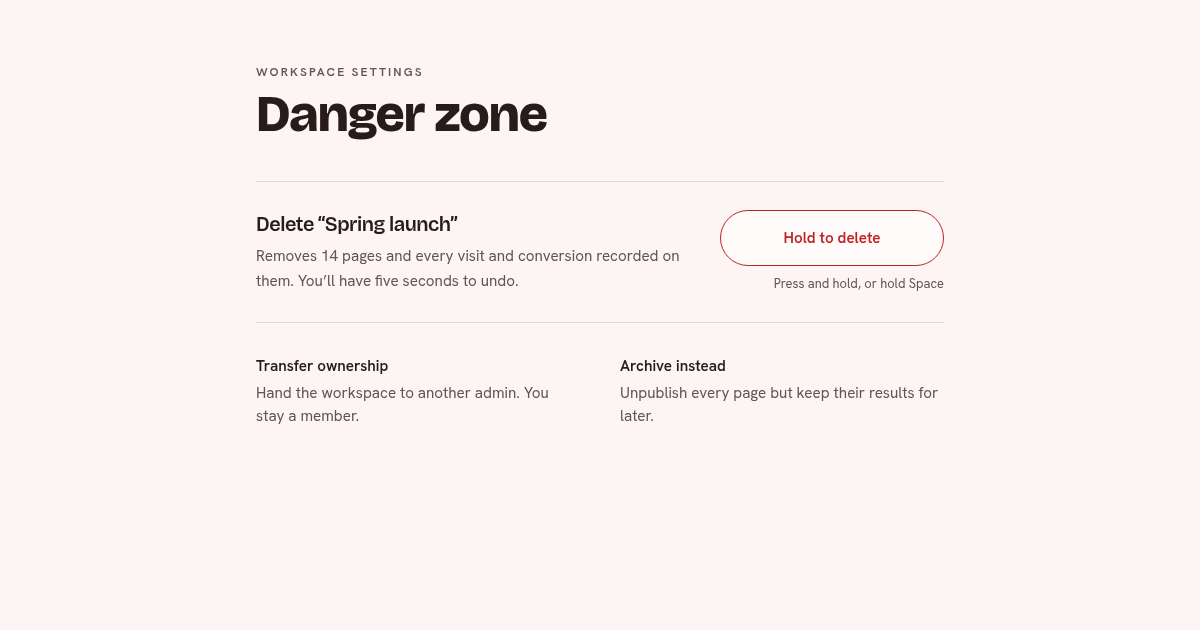
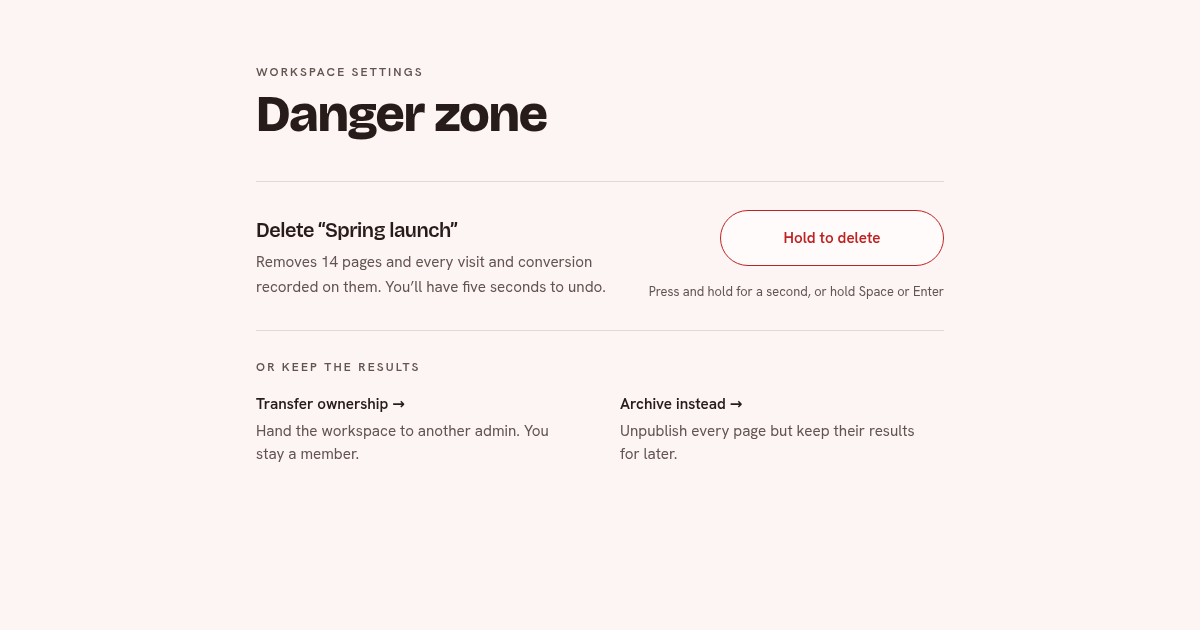
fix(ui): hold-to-confirm click fallback, in-button undo, real alternatives

diff --git a/ui/hold-to-confirm/devin.html b/ui/hold-to-confirm/devin.html
@@ -31,7 +31,12 @@
     }
     .hold:focus-visible { box-shadow: 0 0 0 3px var(--color-paper), 0 0 0 5px var(--color-accent); }
     .hold[data-state="holding"] { transform: scale(0.97); }
-    .hold[data-state="done"], .hold[data-state="gone"] { @apply cursor-default; }
+    .hold[data-state="confirm"] { @apply bg-accent-soft text-accent-deep; box-shadow: inset 0 0 0 1px var(--color-accent); }
+    .hold[data-state="confirm"]:focus-visible { box-shadow: inset 0 0 0 1px var(--color-accent), 0 0 0 3px var(--color-paper), 0 0 0 5px var(--color-accent); }
+    .hold[data-state="undo"] { @apply bg-accent-soft text-accent-deep; }
+    .hold[data-state="gone"] { @apply cursor-default border-rule bg-paper text-dim; }
+    .alt { @apply -mx-3 block min-h-11 w-full rounded-xl px-3 py-2.5 text-left outline-none transition-colors hover:bg-sheet focus-visible:bg-sheet; }
+    .alt:focus-visible { box-shadow: 0 0 0 2px var(--color-accent); }
   }
 </style>
 <style>
@@ -39,15 +44,16 @@
   .hold__fill { transform: scaleX(var(--p)); transform-origin: left; }
   .hold__label--over { clip-path: inset(0 calc(100% - var(--p) * 100%) 0 0); }
   .hold__label { grid-area: 1 / 1; }
+  .hold__ring { display: none; transform: rotate(-90deg); }
+  .hold__ring circle:last-child { transition: stroke-dashoffset 1s linear; }
+  .hold[data-state="undo"] .hold__ring { display: block; }
   @keyframes nudge { 0%,100% { translate: 0 } 25% { translate: -3px } 75% { translate: 3px } }
   .hint[data-nudge] { animation: nudge 260ms ease; }
-  .undo-ring { transform: rotate(-90deg); }
-  .undo-ring circle:last-child { transition: stroke-dashoffset 1s linear; }
   @media (prefers-reduced-motion: reduce) {
     .hold { transition: none; }
     .hold[data-state="holding"] { transform: none; }
     .hint[data-nudge] { animation: none; }
-    .undo-ring circle:last-child { transition: none; }
+    .hold__ring circle:last-child { transition: none; }
   }
 </style>
 </head>
@@ -56,78 +62,87 @@
     <p class="font-body text-xs font-semibold uppercase tracking-[0.18em] text-dim">Workspace settings</p>
     <h1 class="mt-2 font-display text-[clamp(2rem,5vw,3.25rem)] font-extrabold leading-[1.02] tracking-tight">Danger zone</h1>
 
-    <section aria-labelledby="delete-title" class="mt-8 border-y border-rule py-7 sm:mt-10">
-      <div class="flex flex-col gap-6 sm:flex-row sm:items-center sm:justify-between">
-        <div class="max-w-md">
+    <section aria-labelledby="delete-title" class="mt-8 border-y border-rule pt-7 pb-4 sm:mt-10">
+      <div class="flex flex-col gap-6 sm:flex-row sm:items-start sm:justify-between">
+        <div class="max-w-md sm:pt-1.5">
           <h2 id="delete-title" class="font-display text-xl font-semibold tracking-tight">Delete “Spring launch”</h2>
           <p id="delete-desc" class="mt-1.5 text-[0.95rem] leading-relaxed text-dim">
             Removes 14 pages and every visit and conversion recorded on them. You’ll have five seconds to undo.
           </p>
         </div>
 
-        <div class="flex flex-col items-start gap-2 sm:items-end">
+        <div class="flex flex-col items-start gap-1 sm:shrink-0 sm:items-end">
           <button type="button" class="hold" data-state="idle" aria-describedby="delete-desc hold-hint" data-hold>
             <span class="hold__fill absolute inset-0 -z-10 bg-accent" aria-hidden="true"></span>
+            <svg class="hold__ring absolute left-4 top-1/2 -mt-3 size-6" viewBox="0 0 36 36" aria-hidden="true">
+              <circle cx="18" cy="18" r="14" fill="none" stroke="var(--color-rule)" stroke-width="4"></circle>
+              <circle cx="18" cy="18" r="14" fill="none" stroke="var(--color-accent)" stroke-width="4" stroke-linecap="round" stroke-dasharray="87.96" stroke-dashoffset="0" data-ring></circle>
+            </svg>
             <span class="hold__label" data-label>Hold to delete</span>
             <span class="hold__label hold__label--over text-on-accent" aria-hidden="true" data-label-over>Hold to delete</span>
           </button>
-          <p id="hold-hint" class="hint min-h-5 text-[0.8rem] text-dim" data-hint>Press and hold, or hold Space</p>
+          <div class="flex min-h-11 flex-wrap items-center gap-x-3 sm:flex-nowrap sm:justify-end">
+            <p id="hold-hint" class="hint text-[0.8rem] text-dim sm:whitespace-nowrap sm:text-right" data-hint>Press and hold for a second, or hold Space or Enter</p>
+            <button type="button" class="hidden h-11 rounded-full px-1 text-[0.8rem] font-semibold text-accent-deep underline decoration-1 underline-offset-4 hover:decoration-2 focus-visible:outline-2 focus-visible:outline-offset-2 focus-visible:outline-accent" data-reset>Reset the demo</button>
+          </div>
         </div>
-      </div>
-
-      <div class="mt-6 hidden items-center gap-4 rounded-2xl bg-accent-soft px-5 py-4" data-undo-bar>
-        <svg class="undo-ring size-9 shrink-0" viewBox="0 0 36 36" aria-hidden="true">
-          <circle cx="18" cy="18" r="15" fill="none" stroke="var(--color-rule)" stroke-width="3"></circle>
-          <circle cx="18" cy="18" r="15" fill="none" stroke="var(--color-accent)" stroke-width="3" stroke-linecap="round" stroke-dasharray="94.25" stroke-dashoffset="0" data-ring></circle>
-        </svg>
-        <p class="flex-1 text-[0.95rem]"><span class="font-semibold">Spring launch is being deleted.</span> <span class="text-dim" data-count>5 seconds to undo.</span></p>
-        <button type="button" class="h-11 rounded-full px-5 font-semibold text-accent-deep underline decoration-1 underline-offset-4 hover:decoration-2 focus-visible:outline-2 focus-visible:outline-offset-2 focus-visible:outline-accent" data-undo>Undo</button>
-      </div>
-
-      <div class="mt-6 hidden items-center justify-between gap-4" data-gone>
-        <p class="text-[0.95rem] text-dim">Spring launch and its 14 pages are gone.</p>
-        <button type="button" class="h-11 rounded-full border border-rule px-5 text-sm font-semibold hover:border-ink focus-visible:outline-2 focus-visible:outline-offset-2 focus-visible:outline-accent" data-reset>Reset the demo</button>
       </div>
     </section>
 
-    <dl class="mt-8 grid gap-x-10 gap-y-5 text-[0.95rem] sm:grid-cols-2">
-      <div><dt class="font-semibold">Transfer ownership</dt><dd class="mt-1 text-dim">Hand the workspace to another admin. You stay a member.</dd></div>
-      <div><dt class="font-semibold">Archive instead</dt><dd class="mt-1 text-dim">Unpublish every page but keep their results for later.</dd></div>
-    </dl>
+    <section aria-labelledby="alt-title" class="mt-7">
+      <h2 id="alt-title" class="text-xs font-semibold uppercase tracking-[0.18em] text-dim">Or keep the results</h2>
+      <ul class="mt-2 grid gap-x-10 gap-y-1 text-[0.95rem] sm:grid-cols-2">
+        <li>
+          <button type="button" class="alt" data-alt="In the real settings this opens a list of admins to hand it to. It isn’t part of this demo.">
+            <span class="font-semibold">Transfer ownership <span aria-hidden="true">→</span></span>
+            <span class="mt-1 block text-dim">Hand the workspace to another admin. You stay a member.</span>
+          </button>
+        </li>
+        <li>
+          <button type="button" class="alt" data-alt="In the real settings this unpublishes all 14 pages and keeps every result. It isn’t part of this demo.">
+            <span class="font-semibold">Archive instead <span aria-hidden="true">→</span></span>
+            <span class="mt-1 block text-dim">Unpublish every page but keep their results for later.</span>
+          </button>
+        </li>
+      </ul>
+      <p class="mt-2 min-h-5 text-[0.8rem] text-dim" aria-live="polite" data-alt-note></p>
+    </section>
     <p class="sr-only" aria-live="polite" data-live></p>
   </main>
 
 <script>
   (() => {
-    const HOLD_MS = 1100, DRAIN_MS = 350, UNDO_S = 5;
+    const HOLD_MS = 1100, DRAIN_MS = 350, UNDO_S = 5, CONFIRM_MS = 4000, CIRC = 87.96;
+    const HINT = "Press and hold for a second, or hold Space or Enter";
     const btn = document.querySelector("[data-hold]");
     const labels = [btn.querySelector("[data-label]"), btn.querySelector("[data-label-over]")];
     const hint = document.querySelector("[data-hint]");
-    const undoBar = document.querySelector("[data-undo-bar]");
-    const gone = document.querySelector("[data-gone]");
     const ring = document.querySelector("[data-ring]");
-    const count = document.querySelector("[data-count]");
+    const resetBtn = document.querySelector("[data-reset]");
     const live = document.querySelector("[data-live]");
-    const CIRC = 94.25;
+    const altNote = document.querySelector("[data-alt-note]");
 
-    let p = 0, held = false, last = 0, raf = 0, timer = 0, left = UNDO_S;
+    // `gesture` marks a press or key-hold in progress, so the click the browser fires when it ends isn't
+    // read as a separate activation. A click with no gesture behind it (a screen reader in browse mode,
+    // switch access) gets a two-press confirm instead of a hold.
+    let p = 0, held = false, gesture = false, last = 0, raf = 0, timer = 0, confirmTimer = 0, left = UNDO_S;
 
-    const setLabel = (t) => labels.forEach((l) => (l.textContent = t));
+    const state = () => btn.dataset.state;
     const setState = (s) => (btn.dataset.state = s);
+    const setLabel = (t) => labels.forEach((l) => (l.textContent = t));
+    const setFill = (v) => { p = v; btn.style.setProperty("--p", v.toFixed(4)); };
     const announce = (t) => { live.textContent = ""; requestAnimationFrame(() => (live.textContent = t)); };
-    const show = (el, on) => { el.classList.toggle("hidden", !on); el.classList.toggle("flex", on); };
+    const canStart = () => state() === "idle" || state() === "confirm";
 
     function tick(now) {
       const dt = now - last; last = now;
-      p = held ? Math.min(1, p + dt / HOLD_MS) : Math.max(0, p - dt / DRAIN_MS);
-      btn.style.setProperty("--p", p.toFixed(4));
+      setFill(held ? Math.min(1, p + dt / HOLD_MS) : Math.max(0, p - dt / DRAIN_MS));
       if (p >= 1) return complete();
       if (held || p > 0) raf = requestAnimationFrame(tick);
-      else if (btn.dataset.state !== "done") setState("idle");
     }
 
     function start() {
-      if (held || btn.dataset.state === "done" || btn.dataset.state === "gone") return;
+      clearTimeout(confirmTimer);
       held = true; setState("holding"); setLabel("Keep holding…");
       hint.textContent = "Deleting when the bar fills";
       cancelAnimationFrame(raf); last = performance.now(); raf = requestAnimationFrame(tick);
@@ -136,56 +151,91 @@
     function stop() {
       if (!held) return;
       held = false;
-      if (p < 1) {
-        setLabel("Hold to delete");
-        hint.textContent = "Keep holding to delete";
-        hint.removeAttribute("data-nudge"); void hint.offsetWidth; hint.setAttribute("data-nudge", "");
-      }
+      setState("idle"); setLabel("Hold to delete");
+      hint.textContent = "Keep holding to delete";
+      hint.removeAttribute("data-nudge"); void hint.offsetWidth; hint.setAttribute("data-nudge", "");
+    }
+
+    function endGesture() {
+      stop();
+      setTimeout(() => (gesture = false), 0);
+    }
+
+    function askAgain() {
+      setState("confirm"); setLabel("Press again to delete");
+      hint.textContent = "Press again within 4 seconds to delete";
+      announce("Press again to delete Spring launch.");
+      confirmTimer = setTimeout(() => {
+        if (state() !== "confirm") return;
+        toIdle();
+        announce("Delete cancelled.");
+      }, CONFIRM_MS);
     }
 
     function complete() {
-      held = false; setState("done"); setLabel("Deleted");
-      btn.setAttribute("aria-disabled", "true");
-      hint.textContent = "";
-      left = UNDO_S; show(undoBar, true);
+      held = false; clearTimeout(confirmTimer); cancelAnimationFrame(raf);
+      setFill(0); setState("undo"); setLabel("Undo");
+      left = UNDO_S;
       ring.style.transition = "none"; ring.style.strokeDashoffset = "0";
-      requestAnimationFrame(() => { ring.style.transition = ""; renderCount(); });
-      announce(`Spring launch is being deleted. Undo is available for ${UNDO_S} seconds.`);
-      undoBar.querySelector("[data-undo]").focus({ preventScroll: true });
-      timer = setInterval(() => { left -= 1; renderCount(); if (left <= 0) finish(); }, 1000);
+      requestAnimationFrame(() => requestAnimationFrame(() => { ring.style.transition = ""; renderCount(); }));
+      hint.textContent = countText();
+      announce(`Spring launch is being deleted. Press the button again within ${UNDO_S} seconds to undo.`);
+      timer = setInterval(() => { left -= 1; if (left <= 0) return finish(); renderCount(); }, 1000);
     }
 
+    const countText = () => `Deleting Spring launch in ${left} second${left === 1 ? "" : "s"}`;
+
     function renderCount() {
-      count.textContent = left === 1 ? "1 second to undo." : `${left} seconds to undo.`;
-      ring.style.strokeDashoffset = String(CIRC * (1 - left / UNDO_S));
+      hint.textContent = countText();
+      ring.style.strokeDashoffset = String(CIRC * (1 - (left - 1) / UNDO_S));
+    }
+
+    function undo() {
+      toIdle();
+      hint.textContent = "Undone. Nothing was deleted.";
+      announce("Delete undone. Spring launch is safe.");
     }
 
     function finish() {
-      clearInterval(timer); show(undoBar, false); show(gone, true);
+      clearInterval(timer);
       setState("gone"); setLabel("Deleted");
+      btn.setAttribute("aria-disabled", "true");
+      hint.textContent = "Gone, with all 14 pages.";
+      resetBtn.classList.remove("hidden");
       announce("Spring launch was deleted.");
-      gone.querySelector("[data-reset]").focus({ preventScroll: true });
+      if (document.activeElement === btn) resetBtn.focus({ preventScroll: true });
     }
 
-    function reset(message) {
-      clearInterval(timer); cancelAnimationFrame(raf);
-      p = 0; btn.style.setProperty("--p", "0");
+    function toIdle() {
+      clearInterval(timer); clearTimeout(confirmTimer); cancelAnimationFrame(raf);
+      held = false; setFill(0);
       btn.removeAttribute("aria-disabled");
       setState("idle"); setLabel("Hold to delete");
-      hint.textContent = "Press and hold, or hold Space";
-      show(undoBar, false); show(gone, false);
-      if (message) announce(message);
-      btn.focus({ preventScroll: true });
+      hint.textContent = HINT;
+      resetBtn.classList.add("hidden");
     }
 
-    btn.addEventListener("pointerdown", (e) => { if (e.button === 0) { btn.setPointerCapture(e.pointerId); start(); } });
-    ["pointerup", "pointercancel", "lostpointercapture"].forEach((t) => btn.addEventListener(t, stop));
-    btn.addEventListener("keydown", (e) => { if ((e.key === " " || e.key === "Enter") && !e.repeat) { e.preventDefault(); start(); } else if (e.key === " " || e.key === "Enter") e.preventDefault(); });
-    btn.addEventListener("keyup", (e) => { if (e.key === " " || e.key === "Enter") stop(); });
-    btn.addEventListener("blur", stop);
+    btn.addEventListener("pointerdown", (e) => {
+      if (e.button !== 0 || !canStart()) return;
+      gesture = true; btn.setPointerCapture(e.pointerId); start();
+    });
+    ["pointerup", "pointercancel", "lostpointercapture"].forEach((t) => btn.addEventListener(t, endGesture));
+    btn.addEventListener("keydown", (e) => {
+      if (e.key !== " " && e.key !== "Enter") return;
+      if (gesture) return e.preventDefault();
+      if (!e.repeat && canStart()) { e.preventDefault(); gesture = true; start(); }
+    });
+    btn.addEventListener("keyup", (e) => { if (e.key === " " || e.key === "Enter") endGesture(); });
+    btn.addEventListener("blur", endGesture);
     btn.addEventListener("contextmenu", (e) => e.preventDefault());
-    undoBar.querySelector("[data-undo]").addEventListener("click", () => reset("Delete undone. Spring launch is safe."));
-    gone.querySelector("[data-reset]").addEventListener("click", () => reset());
+    btn.addEventListener("click", () => {
+      if (gesture) return;
+      if (state() === "undo") undo();
+      else if (state() === "confirm") complete();
+      else if (state() === "idle") askAgain();
+    });
+    resetBtn.addEventListener("click", () => { toIdle(); btn.focus({ preventScroll: true }); });
+    document.querySelectorAll("[data-alt]").forEach((b) => b.addEventListener("click", () => (altNote.textContent = b.dataset.alt)));
   })();
 </script>
 </body>

diff --git a/ui/hold-to-confirm/CRITIQUE.md b/ui/hold-to-confirm/CRITIQUE.md
@@ -7,47 +7,45 @@ scope: full
 
 ## Verdict
 
-It reaches the bar for sighted pointer and keyboard users: the hold teaches itself, the fill reads as progress, and undo is a real safety net. The biggest opportunity is the path with no hold at all. A screen reader in browse mode, or switch access, sends a single click, and a click does nothing here. It doesn't read as AI-generated: the palette is restrained and the two-tone label is a considered detail. The page around it is a stock settings layout, though, so the button carries the whole piece.
+It now works for everyone the brief names. The hold teaches itself, a plain click gets a "Press again" step instead of nothing, and the countdown and Undo live in the button, so the eye never leaves the spot it was already on. Nothing on the page moves between states. It doesn't read as AI-generated: the two-tone label and the ring inside the button are the memorable details, and the rest stays quiet. The settings page around it is still stock, so the button carries the piece.
 
 ## Brief coverage
 
 - **Met**: Fills left to right while held, and the label changes color exactly where the fill reaches it.
-- **Met**: Letting go early drains the fill, says "Keep holding to delete", and nudges the hint.
-- **Met**: A five-second undo with a ring and a countdown, then a final state.
-- **Partly**: Space and Enter work, and screen readers hear the delete and the undo. A click with no hold behind it (a screen reader's activation, a switch) is ignored, so some assistive-tech users can't delete at all.
-- **Met**: With reduced motion the fill still moves, and the press scale, nudge and ring transitions stop.
+- **Met**: Letting go early drains the fill and says "Keep holding to delete".
+- **Met**: The button becomes Undo for five seconds with a ring and a countdown, then says Deleted. The layout holds still throughout.
+- **Met**: Space and Enter holds work, and a click with no hold behind it asks for a second press within four seconds. Screen readers hear each step and that undo is available.
+- **Met**: With reduced motion the fill and ring still show progress, and the press scale and nudge stop.
 
 ## Heuristics
 
 | # | Heuristic | Score | Key issue |
 |---|-----------|-------|-----------|
 | 1 | Visibility of system status | 4 | n/a: fill, label, hint, ring and countdown all report state |
-| 2 | Match system / real world | 3 | “Danger zone” is a developer convention; fine for this audience |
-| 3 | User control and freedom | 4 | n/a: early release cancels, and undo restores |
-| 4 | Consistency and standards | 3 | The button says "Deleted" while the undo bar says "being deleted" |
-| 5 | Error prevention | 4 | n/a: the hold is the prevention |
-| 6 | Recognition rather than recall | 3 | The hint names Space but not Enter |
-| 7 | Flexibility and efficiency | 2 | No path for a single activation: no click fallback |
-| 8 | Aesthetic and minimalist design | 3 | The alternatives look like options but are plain text |
-| 9 | Error recovery | 3 | Once the five seconds pass, nothing says where to go next |
-| 10 | Help and documentation | 3 | The inline hint carries it; nothing says how long to hold |
-| **Total** | | **32/40** | **Good** |
+| 2 | Match system / real world | 3 | "Danger zone" is a developer convention; fine for this audience |
+| 3 | User control and freedom | 4 | n/a: early release cancels, the second press times out, undo restores |
+| 4 | Consistency and standards | 4 | n/a: "Undo" while pending, "Deleted" only once it's final |
+| 5 | Error prevention | 4 | n/a: the hold, or the second press, is the prevention |
+| 6 | Recognition rather than recall | 4 | n/a: the hint names the duration, Space and Enter |
+| 7 | Flexibility and efficiency | 4 | n/a: pointer, keyboard and single-activation paths all work |
+| 8 | Aesthetic and minimalist design | 3 | The page around the button is a generic settings layout |
+| 9 | Error recovery | 3 | After the final state, "Reset the demo" is demo chrome, not a real next step |
+| 10 | Help and documentation | 3 | The hint carries it; the alternatives only explain themselves |
+| **Total** | | **36/40** | **Excellent** |
 
 ## What's working
 
-- The label drawn twice and clipped to the fill makes the progress legible inside the text itself, so there's no extra progress bar to read.
-- Early release says what happened and drains rather than snapping back, so a failed attempt teaches the gesture instead of feeling like an error.
-- Focus moves to Undo as the undo bar appears and back to the button afterward, so keyboard users never lose their place.
+- The countdown lives in the button that started the delete, so the place you just pressed is the place you'd press to take it back.
+- The two-press fallback reuses the same button and announces itself, so it's an accessible path without a second control or a dialog.
+- Fixed-height hint and action rows mean nothing below shifts while someone is deciding.
 
 ## Priority issues
 
-- **[P1]** A plain click does nothing. Screen readers in browse mode and switch devices activate with one click, so for those users the button looks broken. Fix: when a `click` arrives with no hold behind it (`event.detail === 0`, or no pointerdown or keydown first), switch to a second step, such as the label becoming "Press again to delete" for a few seconds, and announce it.
-- **[P2]** The button says "Deleted" while the deletion can still be undone. That contradicts the undo bar and could make someone think undo is too late. Fix: show "Deleting…" during the countdown, and "Deleted" only in the final state.
-- **[P2]** "Transfer ownership" and "Archive instead" sit in a danger zone looking like choices, but they aren't actionable. Giving the safer paths no affordance weakens the page's argument. Fix: make them links or quiet buttons, or label the list "Other options" so it reads as information.
-- **[P3]** The undo bar and the final message push the alternatives down when they appear. Fix: reserve the row's height, or bring the bar in over it, so the layout stays put during a high-stress moment.
-- **[P3]** The hint says "hold Space" while Enter works too, and gives no duration. Fix: "Press and hold for a second (or hold Space or Enter)".
+- **[P2]** Undo sits exactly where the hold ended, so a reflexive second tap right after completing undoes the delete. That's the safe direction, but it can feel like the button didn't work. Fix: ignore presses on Undo for the first ~300ms after completion.
+- **[P3]** "Transfer ownership" and "Archive instead" now respond, but only with a note that they aren't in the demo. Fix, if the exploration grows: give one of them a real lightweight flow so the page argues for the safer path.
+- **[P3]** The final state offers "Reset the demo", which breaks the fiction of the settings page. Fix: phrase the final state as the real product would (for example, a link back to the workspace list) and keep reset as a quieter control.
 
 ## Questions
 
 - Should the hold time scale with what's at stake, so deleting 14 pages takes longer than deleting one?
-- Would the five seconds feel calmer if the countdown lived in the button itself, keeping the user's eyes in one place?
+- Is four seconds the right window for the second press? Screen reader users moving through the page may need longer.

diff --git a/ui/hold-to-confirm/BRIEF.md b/ui/hold-to-confirm/BRIEF.md
@@ -12,6 +12,7 @@ A "danger zone" row in workspace settings: deleting a workspace removes every pa
 
 - While held, the button fills left to right, and its label flips color where the fill has reached.
 - Letting go early drains the fill back and says so ("Keep holding to delete"), so the gesture teaches itself.
-- When it completes there's a five-second undo with a visible countdown, then a final state.
+- When it completes the button itself becomes Undo for five seconds, with a visible countdown, then a final state. Nothing else on the page moves.
 - Holding Space or Enter works the same as pressing with a pointer. Screen readers hear what happened and that undo is available.
+- A single click with no hold behind it (a screen reader in browse mode, a switch) asks to be pressed again, so nobody is locked out.
 - With reduced motion the fill still shows progress (it's information), but nothing bounces.

diff --git a/ui/hold-to-confirm/NOTES.md b/ui/hold-to-confirm/NOTES.md
@@ -1,3 +1,5 @@
 The seed exploration, built to prove out the pipeline: one HTML file, Tailwind compiled at build time, and a page that switches frame widths.
 
 The detail that makes it work is the label drawn twice: a dark copy under the fill and a light copy clipped to the fill's edge, so the text changes color right where the fill reaches it.
+
+After the first critique: a click with no hold behind it (a screen reader in browse mode, a switch) now asks you to press again; the countdown and Undo live in the button itself, so nothing on the page moves; the button says "Undo" while the delete is still pending, not "Deleted"; and the safer options are real buttons.
